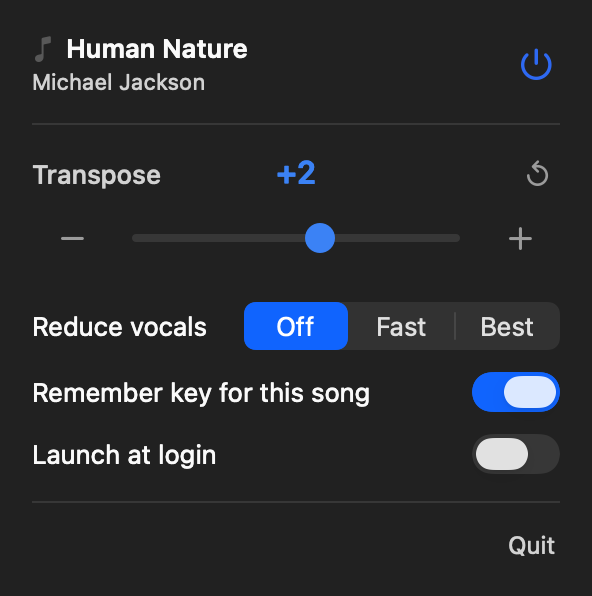
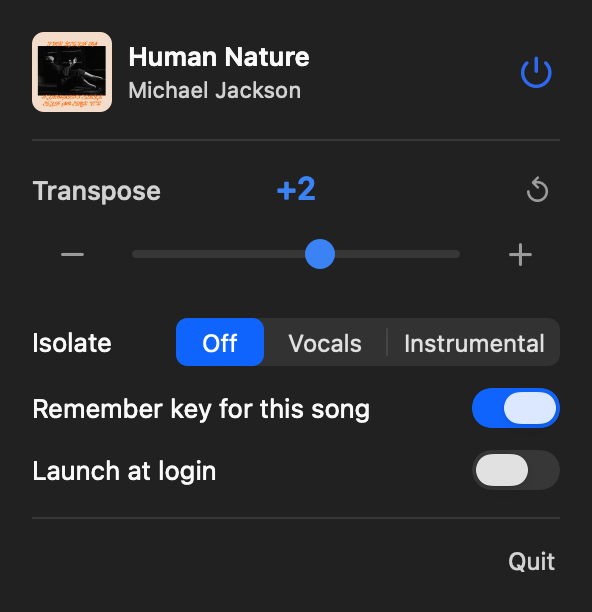
Show album art in the popover
Spotify's PlaybackStateChanged notification reports `Has Artwork` but not the
URL, so the URL has to come from AppleScript. Artwork therefore depends on
Automation permission and degrades to the note glyph without it — nothing here
is load-bearing.

Art is prefetched on track change rather than when the popover opens, so it is
already there when you look. Fetches are cached by track id, deduplicated, and
keyed on the id returned by the same script that returns the URL: reading them
separately would cache the previous cover under the new track if the song
changed in between. Downloads go through URLSession with a timeout instead of
Data(contentsOf:), which would pin a worker thread on a stalled CDN.

The tile needed a container view. NSImageView sizes itself from its image and
ignored width, height and aspect-ratio constraints outright — it laid out at
40.5 x 47.5 with three required constraints attached and no conflict logged,
which is why it looked taller than it was wide. A plain NSView honours the
constraints, with the image pinned to its edges; the frame is now exactly
40 x 40.

Claude-Session: https://claude.ai/code/session_01XBrmAbMjTne7yzF223y7sk

diff --git a/Sources/Transposify/PopoverViewController.swift b/Sources/Transposify/PopoverViewController.swift
@@ -31,6 +31,10 @@ final class PopoverViewController: NSViewController {
     private let controller: AudioController
     private let spotify: SpotifyState
 
+    private static let artworkSize: CGFloat = 40
+    private let artworkView = NSImageView()
+    private let artworkTile = NSView()
+    private let artwork: ArtworkStore
     private let trackLabel = NSTextField(labelWithString: "")
     private let artistLabel = NSTextField(labelWithString: "")
     private let valueLabel = NSTextField(labelWithString: "0")
@@ -49,9 +53,11 @@ final class PopoverViewController: NSViewController {
     /// Rows greyed out (and disabled) while the app is switched off.
     private var inactiveWhenOff: [NSView] = []
 
-    init(controller: AudioController, spotify: SpotifyState) {
+    init(controller: AudioController, spotify: SpotifyState,
+         artwork: ArtworkStore = ArtworkStore()) {
         self.controller = controller
         self.spotify = spotify
+        self.artwork = artwork
         super.init(nibName: nil, bundle: nil)
     }
 
@@ -61,11 +67,33 @@ final class PopoverViewController: NSViewController {
         let width: CGFloat = 296
 
         // Now playing ------------------------------------------------------
-        let nowIcon = NSImageView()
-        nowIcon.image = NSImage(systemSymbolName: "music.note", accessibilityDescription: nil)?
-            .withSymbolConfiguration(.init(pointSize: 13, weight: .medium))
-        nowIcon.contentTintColor = .tertiaryLabelColor
-        nowIcon.setContentHuggingPriority(.required, for: .horizontal)
+        // Album art, with the note glyph as the placeholder it falls back to
+        // when there is no track or no Automation permission.
+        //
+        // The image view goes inside a plain container: NSImageView sizes
+        // itself from its image and ignored width/height constraints outright
+        // (it came out 40.5 x 47.5 with three required constraints attached
+        // and no conflict logged). A plain NSView honours them, and pinning
+        // the image to its edges keeps the tile square.
+        artworkView.imageScaling = .scaleProportionallyUpOrDown
+        artworkView.translatesAutoresizingMaskIntoConstraints = false
+
+        artworkTile.wantsLayer = true
+        artworkTile.layer?.cornerRadius = 6
+        artworkTile.layer?.masksToBounds = true
+        artworkTile.layer?.backgroundColor = NSColor(white: 0.5, alpha: 0.16).cgColor
+        artworkTile.translatesAutoresizingMaskIntoConstraints = false
+        artworkTile.setContentHuggingPriority(.required, for: .horizontal)
+        artworkTile.setContentHuggingPriority(.required, for: .vertical)
+        artworkTile.addSubview(artworkView)
+        NSLayoutConstraint.activate([
+            artworkTile.widthAnchor.constraint(equalToConstant: Self.artworkSize),
+            artworkTile.heightAnchor.constraint(equalToConstant: Self.artworkSize),
+            artworkView.leadingAnchor.constraint(equalTo: artworkTile.leadingAnchor),
+            artworkView.trailingAnchor.constraint(equalTo: artworkTile.trailingAnchor),
+            artworkView.topAnchor.constraint(equalTo: artworkTile.topAnchor),
+            artworkView.bottomAnchor.constraint(equalTo: artworkTile.bottomAnchor),
+        ])
 
         trackLabel.font = .systemFont(ofSize: 13, weight: .semibold)
         trackLabel.lineBreakMode = .byTruncatingTail
@@ -76,10 +104,9 @@ final class PopoverViewController: NSViewController {
         artistLabel.lineBreakMode = .byTruncatingTail
         artistLabel.maximumNumberOfLines = 1
 
-        let titleRow = NSStackView(views: [nowIcon, trackLabel])
+        let titleRow = NSStackView(views: [trackLabel])
         titleRow.orientation = .horizontal
         titleRow.alignment = .firstBaseline
-        titleRow.spacing = 6
         let nowRow = NSStackView(views: [titleRow, artistLabel])
         nowRow.orientation = .vertical
         nowRow.alignment = .leading
@@ -100,7 +127,7 @@ final class PopoverViewController: NSViewController {
 
         let nowSpacer = NSView()
         nowSpacer.setContentHuggingPriority(.init(1), for: .horizontal)
-        let nowHeader = NSStackView(views: [nowRow, nowSpacer, powerButton])
+        let nowHeader = NSStackView(views: [artworkTile, nowRow, nowSpacer, powerButton])
         nowHeader.orientation = .horizontal
         nowHeader.alignment = .centerY
         nowHeader.spacing = 8
@@ -254,6 +281,7 @@ final class PopoverViewController: NSViewController {
         nowRow.setContentHuggingPriority(.defaultLow, for: .horizontal)
         titleRow.widthAnchor.constraint(equalTo: nowRow.widthAnchor).isActive = true
         artistLabel.widthAnchor.constraint(equalTo: nowRow.widthAnchor).isActive = true
+        artwork.onChange = { [weak self] in self?.refresh() }
         inactiveWhenOff = [header, sliderRow, karaokeRow]
         view = container
     }
@@ -294,6 +322,8 @@ final class PopoverViewController: NSViewController {
             artistLabel.isHidden = true
             artistLabel.toolTip = nil
         }
+
+        updateArtwork()
 
         let s = controller.semitones
         valueLabel.stringValue = s == 0 ? "0" : (s > 0 ? "+\(s)" : "\u{2212}\(abs(s))")
@@ -390,6 +420,28 @@ final class PopoverViewController: NSViewController {
         controller.setSemitones(value)
     }
     @objc private func powerToggled() { controller.setEnabled(!controller.enabled) }
+    /// Snapshot/testing only.
+
+    /// Snapshot/testing only.
+    func seedArtwork(_ image: NSImage, for trackID: String) {
+        artwork.seed(image, for: trackID)
+    }
+
+    /// Album art for the current track, or the note placeholder. Requesting is
+    /// cheap and idempotent; the store calls back when an image arrives.
+    private func updateArtwork() {
+        let trackID = spotify.current?.id ?? ""
+        if let image = artwork.image(for: trackID) {
+            artworkView.image = image
+            artworkView.contentTintColor = nil
+        } else {
+            artworkView.image = NSImage(systemSymbolName: "music.note",
+                                        accessibilityDescription: nil)?
+                .withSymbolConfiguration(.init(pointSize: 15, weight: .medium))
+            artworkView.contentTintColor = .tertiaryLabelColor
+        }
+    }
+
     /// The model row is the only place "Best" explains itself, so it carries
     /// the size up front, live progress, and any failure — rather than leaving
     /// a greyed-out segment with no explanation.

diff --git a/Sources/Transposify/ArtworkStore.swift b/Sources/Transposify/ArtworkStore.swift
@@ -1,0 +1,91 @@
+import AppKit
+
+/// Fetches and caches Spotify album art for the popover.
+///
+/// The `PlaybackStateChanged` notification reports `Has Artwork` but not the
+/// URL, so the URL has to come from AppleScript — which means artwork depends
+/// on Automation permission and must degrade to a placeholder without it.
+/// Nothing here is load-bearing: it is decoration on a control panel.
+final class ArtworkStore {
+    private let cache = NSCache<NSString, NSImage>()
+    private var inFlight = Set<String>()
+    private var failedOnce = false
+
+    /// Called on the main queue when a newly fetched image is available.
+    var onChange: (() -> Void)?
+
+    init() { cache.countLimit = 24 }
+
+    /// Cached art for a track, or nil. Never blocks.
+    func image(for trackID: String) -> NSImage? {
+        cache.object(forKey: trackID as NSString)
+    }
+
+    /// Snapshot/testing only: supply art directly.
+    func seed(_ image: NSImage, for trackID: String) {
+        cache.setObject(image, forKey: trackID as NSString)
+    }
+
+    /// Start a fetch if this track isn't cached or already being fetched.
+    func request(trackID: String) {
+        guard !trackID.isEmpty,
+              cache.object(forKey: trackID as NSString) == nil,
+              !inFlight.contains(trackID) else { return }
+        inFlight.insert(trackID)
+
+        DispatchQueue.global(qos: .utility).async { [weak self] in
+            guard let self else { return }
+            // Ask for the id and the URL together: by the time this runs the
+            // current track may have moved on, and caching art under the wrong
+            // id would show the previous cover.
+            guard let pair = Self.currentArtwork() else {
+                DispatchQueue.main.async {
+                    self.inFlight.remove(trackID)
+                    if !self.failedOnce {
+                        self.failedOnce = true
+                        log.notice("album art unavailable (Automation permission?)")
+                    }
+                }
+                return
+            }
+            guard let url = URL(string: pair.url) else {
+                DispatchQueue.main.async { self.inFlight.remove(trackID) }
+                return
+            }
+            // URLSession rather than Data(contentsOf:) so a stalled CDN can't
+            // pin a worker thread indefinitely.
+            var request = URLRequest(url: url)
+            request.timeoutInterval = 10
+            URLSession.shared.dataTask(with: request) { data, _, error in
+                DispatchQueue.main.async {
+                    self.inFlight.remove(trackID)
+                    guard let data, let image = NSImage(data: data) else {
+                        if let error {
+                            log.error("album art download failed: \(String(describing: error), privacy: .public)")
+                        }
+                        return
+                    }
+                    self.cache.setObject(image, forKey: pair.trackID as NSString)
+                    log.notice("album art loaded for \(pair.trackID, privacy: .public)")
+                    self.onChange?()
+                }
+            }.resume()
+        }
+    }
+
+    private static func currentArtwork() -> (trackID: String, url: String)? {
+        let source = """
+        tell application "Spotify"
+            set theTrackID to (id of current track) as text
+            set theArtURL to (artwork url of current track) as text
+            return theTrackID & "\u{0001}" & theArtURL
+        end tell
+        """
+        var error: NSDictionary?
+        guard let result = NSAppleScript(source: source)?
+                .executeAndReturnError(&error).stringValue, error == nil else { return nil }
+        let parts = result.components(separatedBy: "\u{0001}")
+        guard parts.count == 2, !parts[1].isEmpty else { return nil }
+        return (parts[0], parts[1])
+    }
+}

diff --git a/Sources/Transposify/AppDelegate.swift b/Sources/Transposify/AppDelegate.swift
@@ -6,6 +6,7 @@ final class AppDelegate: NSObject, NSApplicationDelegate {
     private let spotify = SpotifyState()
     private let controller = AudioController()
     private let popover = NSPopover()
+    private let artwork = ArtworkStore()
     private var statusItem: NSStatusItem!
     private var popoverVC: PopoverViewController!
 
@@ -50,7 +51,13 @@ final class AppDelegate: NSObject, NSApplicationDelegate {
             button.imageHugsTitle = true
         }
 
-        popoverVC = PopoverViewController(controller: controller, spotify: spotify)
+        popoverVC = PopoverViewController(controller: controller, spotify: spotify,
+                                          artwork: artwork)
+        // Prefetch on track change so the art is already there when the popover
+        // opens, rather than appearing a beat later.
+        artwork.onChange = { [weak self] in
+            DispatchQueue.main.async { self?.popoverVC.refresh() }
+        }
         popover.contentViewController = popoverVC
         popover.behavior = .transient
 
@@ -112,6 +119,7 @@ final class AppDelegate: NSObject, NSApplicationDelegate {
     }
 
     private func syncSpotifyToController() {
+        if let id = spotify.current?.id { artwork.request(trackID: id) }
         controller.spotifyUpdate(running: spotify.isRunning,
                                  playing: spotify.isPlaying,
                                  trackID: spotify.current?.id)
@@ -223,6 +231,10 @@ final class AppDelegate: NSObject, NSApplicationDelegate {
         controller.setSemitones(2)
 
         let vc = PopoverViewController(controller: controller, spotify: spotify)
+        if let art = ProcessInfo.processInfo.environment["TRANSPOSIFY_SNAPSHOT_ART"],
+           let image = NSImage(contentsOfFile: art) {
+            vc.seedArtwork(image, for: "snapshot")
+        }
         let content = vc.view
         content.appearance = NSAppearance(named: .darkAqua)
         content.layoutSubtreeIfNeeded()

diff --git a/README.md b/README.md
@@ -94,7 +94,9 @@ in memory (on the order of a gigabyte) only while `Best` is selected.
 
 Click the menu-bar item to open the popup:
 
-- **Now playing** — current track + artist.
+- **Now playing** — album art, track and artist. Art comes from Spotify's
+  AppleScript interface, so it needs Automation permission; without it the
+  popover just shows a placeholder.
 - **Transpose** — `−` / value / `+`, or the slider (±12 semitones). *Reset*
   (↺) appears when shifted.
 - **Isolate** — `Off` / `Vocals` / `Instrumental`.
